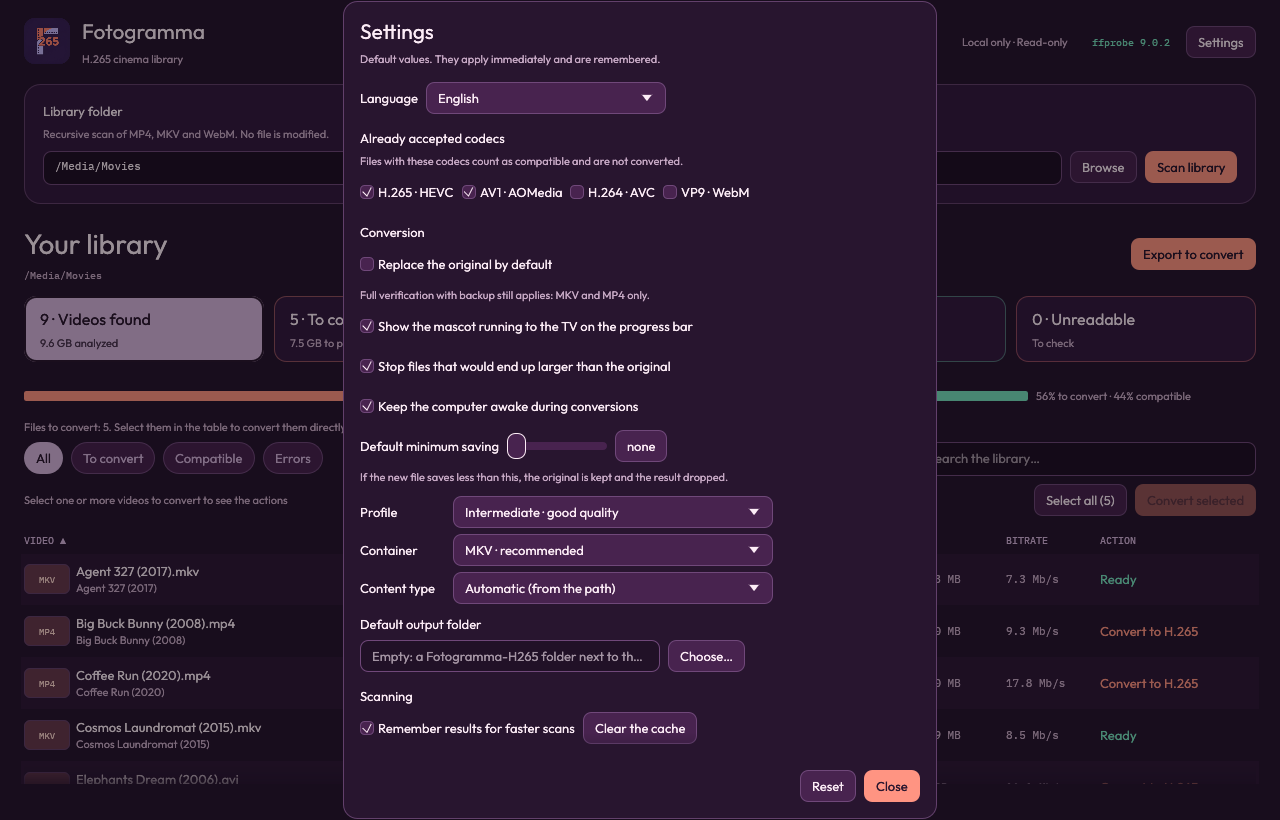
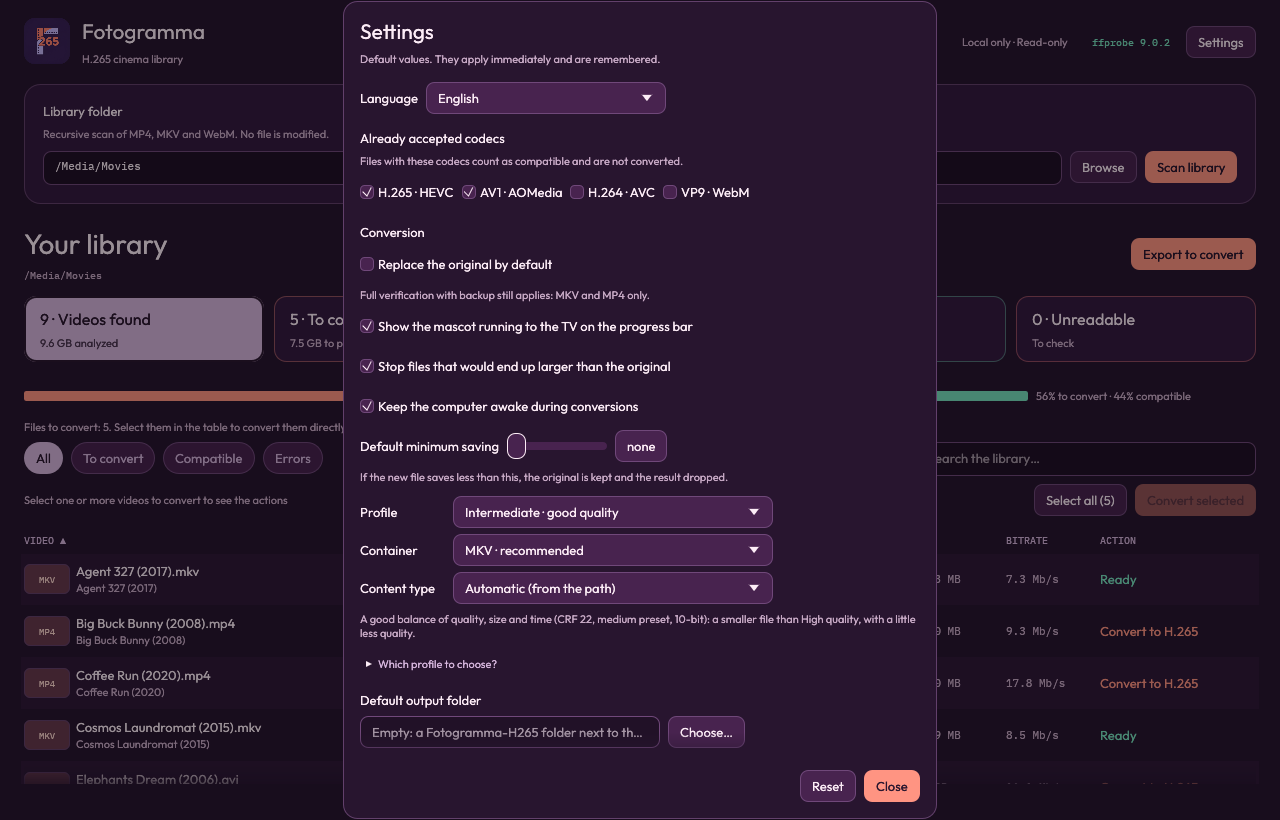
Align the README and the architecture notes with the latest version
Settings now describe the default profile and carry the profile comparison.
The README covers the opt-in update check and its card, the early stop and the
advice, the background queue, the mascot, stopped conversions, the new
modules, and a regenerated Settings screenshot.

Changed region(s): [[0.2812, 0.7317, 0.7188, 0.9146]]

diff --git a/crates/app/src/dialogs.rs b/crates/app/src/dialogs.rs
@@ -1966,6 +1966,18 @@ pub fn show_settings(ctx: &egui::Context, settings: &mut Settings) -> SettingsOu
                         .labelled_by(content_widget.id);
                     ui.end_row();
                 });
+            // What the default profile is, and how the profiles compare.
+            if let Some(profile) = builtin_profile(&settings.default_profile) {
+                ui.add(
+                    egui::Label::new(
+                        RichText::new(profile.description)
+                            .small()
+                            .color(theme::MUTED),
+                    )
+                    .wrap(),
+                );
+            }
+            profile_comparison(ui);
 
             ui.add_space(4.0);
             let output_label = ui.label(tr_str(

diff --git a/README.md b/README.md
@@ -48,21 +48,21 @@ Fotogramma is the one that shows you the library first (what is not H.265, how m
 - Full-output validation before replacing an original file.
 - **Done stays done.** After a conversion, a video whose original was replaced moves to the compatible ones; one converted into a new file stays in the list but is marked **Already converted** (hover for the output path), and *Select all* and *Export* skip it so it is not converted twice by accident.
 - **Made for big libraries:** a scan cache (a rescan reads only the files that changed), up to 8 `ffprobe` threads, a **Bitrate** column to sort by what has the most to gain, and CSV or JSON export.
-- **Keeps long jobs safe:** the queue is saved while it runs and can be resumed after a crash, paused, ordered (largest or smallest first), and followed by sleep or shutdown; the computer is kept awake meanwhile.
+- **Keeps long jobs safe:** the queue is saved while it runs and can be resumed after a crash, paused, ordered (largest or smallest first), and followed by sleep or shutdown; the computer is kept awake meanwhile. Stopping it says so ("Conversion stopped"), and the file you stopped is not counted as an error.
 - **Smarter conversions:** subtitles that do not fit MP4 send the file to MKV, HDR sources are never processed in 8 bits, results that save too little are dropped, converted files keep the date of the original, and the progress shows the time left.
 - **A normal application menu:** on macOS the native menu bar (Fotogramma, File, Edit, View, Window, Help), on Windows and Linux a menu bar in the window, with the same entries and shortcuts: `Ctrl/Cmd+O` choose a folder, `R` scan, `E` export, `Enter` convert the selection, `Shift+A` select all to convert, `F` search, `1`–`4` filters, `,` settings, `W` close the window, `Q` quit. Entries are greyed out when they cannot work.
 - **Conversion in the background:** the progress window can be minimized to a bar at the bottom, and while it runs you can choose more videos and add them to the queue (they run one batch after the other, never in parallel). Stop ends the whole queue.
-- **Early stop and advice:** a file that is clearly heading for a result larger than the original (or than the minimum saving allows) is stopped after the first 10% instead of hours later, and the original is kept; the conversion window also suggests a CRF from how compressed the selected files already are.
+- **Early stop and advice:** a file that is clearly heading for a result larger than the original (or than the minimum saving allows) is stopped after the first 10% instead of hours later, and the original is kept. The conversion window also suggests a CRF from how compressed the selected files already are (a remux that is already at 5 Mb/s needs a higher CRF than a huge one), with a button to apply it, and a **Which profile to choose?** table with the time, file size and use of each profile.
 - **A little easter egg:** a chibi girl runs along the progress bar towards a switched-off TV. She never gets there while the conversion runs (not even at 100% of a file); when it has really finished she reaches it and the TV turns on. She is original pixel art drawn in code by `deployment/make_mascot.py`, and can be switched off in Settings.
 - **Your own presets:** save the custom profile under a name.
 - **Japanese and Korean file names** are drawn with a system font when a scan finds them.
 - **Command line:** `fotogramma-cli scan <folder>` lists what is left to convert, with no window.
 - **Space saved:** each converted file shows its new size against the old one, and the end of a conversion reports the total space freed (or used, if a file grew).
 - **Content type:** anime or live action (films and series). Anime gets `-tune animation`; "Automatic" reads the folders of the path (`Anime`, `Film`, `Serie TV`, `Movies`…), in English and Italian.
-- **Self-update:** the first time you start the app it asks whether it may check GitHub for updates at startup; nothing is requested until you say yes. If it finds a newer version it shows the release notes and installs it after verifying its checksum.
+- **Self-update, only if you say so:** the first time you start the app it asks whether it may check GitHub for updates at startup; nothing is requested until you say yes. If it finds a newer version it shows the release notes and installs it after verifying its checksum. **Check for Updates…** in the menu answers with a card: a spinner, then "You are up to date" (or why it failed).
 - **English and Italian**, chosen automatically from the system language, with an optional manual override.
-- **Settings** window: choose which codecs count as already compatible (the home page, statistics, and table update at once, no new scan) and the conversion defaults (replace original, profile, container).
-- Original application icon and Cinema Pop theme.
+- **Settings** window: choose the language, which codecs count as already compatible (the home page, statistics, and table update at once, no new scan), the conversion defaults (replace original, profile, container, content type, output folder, minimum saving), the early stop, the mascot, the scan cache and the update check.
+- Original application icon, Cinema Pop theme, and a window that scrolls instead of cutting its content when it is small.
 - No videos are modified during inspection. No media or metadata is uploaded during scanning or conversion.
 
 ![Conversion in progress, with the mascot running to the TV](docs/assets/fotogramma-conversion-progress.png)
@@ -78,14 +78,16 @@ Open **Settings** (*Impostazioni* in Italian) from the header. Changes apply imm
 - **Content type:** automatic (from the path), anime, or films and series, used as the default in the conversion dialog.
 - **Default output folder:** where converted files go. Empty means a `Fotogramma-H265` folder next to the originals.
 - **Replace the original by default:** pre-selects the verified replacement in the conversion dialog.
-- **Profile and container:** the preset and `mkv`/`mp4` pre-selected for new conversions.
+- **Profile and container:** the preset and `mkv`/`mp4` pre-selected for new conversions. Under them the profile is described, with the **Which profile to choose?** comparison.
 - **Keep the computer awake during conversions** (on by default) and a **default minimum saving**: when the new file saves less than that percentage, the original is kept and the result dropped.
+- **Stop files that would end up larger than the original** (on by default): after the first 10% of a file the size written so far gives a projection; if it is clearly too big, that file is stopped and the original kept.
+- **The mascot** on the progress bar (on by default).
 - **Remember results for faster scans:** the scan cache, with a button to clear it.
-- **Updates:** check at startup, or now.
+- **Updates:** check at startup (off until you agree to it at the first start), or check now.
 
 ## Conversion presets
 
-The **Custom** profile can be saved under a name (up to 40 characters) and appears in the profile menu from then on; saving under an existing name replaces it. The dialog also has **Order** (as listed, largest first for the most to gain, or smallest first for quick results), **Minimum saving**, and **When finished** (do nothing, sleep, or shut down after a 60-second countdown you can cancel). While a queue runs you can **pause after the file in progress**; if the app or the computer stops, the next start offers to resume what is left.
+The **Custom** profile can be saved under a name (up to 40 characters) and appears in the profile menu from then on; saving under an existing name replaces it. The dialog describes the chosen profile and has a **Which profile to choose?** comparison, and an **Advice for these files** box that suggests a CRF from the bitrate and the resolution of the selection, with a button to apply it. It also has **Order** (as listed, largest first for the most to gain, or smallest first for quick results), **Minimum saving** with the early stop (**Stop files that would end up larger than the original**), and **When finished** (do nothing, sleep, or shut down after a 60-second countdown you can cancel). While a queue runs you can **pause after the file in progress** or **minimize it to the background** and add more batches to the queue (the button then reads **Add to the queue**); if the app or the computer stops, the next start offers to resume what is left.
 
 ![Conversion dialog](docs/assets/fotogramma-conversion-dialog.png)
 
@@ -143,6 +145,7 @@ These are choices, not oversights:
 - **One conversion at a time.** (A queue can be paused, resumed and run in the background, with more batches added behind it, but it never runs in parallel.) The queue is sequential on purpose: x265 already uses every core, and parallel jobs only saturate the CPU and the disk.
 - **Only the first video stream is analyzed** (`v:0`) of `.mp4`, `.mkv`, and `.webm`. A file with several video streams is classified by its first one; the conversion itself keeps every stream (`-map 0`).
 - **Replacing an original does not work with WebM.** The WebM container only allows VP8, VP9 and AV1 video, so an HEVC result cannot stay a `.webm`: it has to become `.mkv` or `.mp4`. Replacing means swapping the verified result into the original's exact path with a backup, and a different extension would break that guarantee. WebM files can still be converted: the result is a new `.mkv` or `.mp4` next to them, and the original is left alone.
+- **Only the batch that is running is saved for a resume.** Batches waiting behind it in the background queue are lost if the app closes (it warns you first).
 - **No macOS notarization.** The app is ad-hoc signed but not notarized (that needs a paid Apple developer account), so Gatekeeper asks you to confirm the first launch.
 - **No macOS Intel build,** and the interface is available in Italian and English only.
 
@@ -176,7 +179,7 @@ If you agreed to it at the first start (or in Settings), Fotogramma asks GitHub 
 2. refuses it unless its SHA-256 matches `SHA256SUMS.txt`, published with every release (and, on macOS, unless the code signature is valid);
 3. after you quit, swaps the installed copy for the new one, keeps the old one if anything fails, and starts the new version.
 
-It needs write access to the folder that holds the app; otherwise the window shows the release page to download by hand. A copy started with `cargo run` is never replaced. **Settings → Updates** turns the startup check off or checks right away, and `FOTOGRAMMA_NO_UPDATE_CHECK=1` disables it for a single run. Releases up to 2.3.0 have no updater and no checksums: install 2.4.0 by hand once.
+It needs write access to the folder that holds the app; otherwise the window shows the release page to download by hand. A copy started with `cargo run` is never replaced. **Settings → Updates** turns the startup check on or off, or checks right away, and `FOTOGRAMMA_NO_UPDATE_CHECK=1` disables it for a single run. Releases up to 2.3.0 have no updater and no checksums: install 2.4.0 by hand once.
 
 ## Run from source
 
@@ -210,7 +213,7 @@ The application looks for the media tools in the executable folder, `bin/` besid
 3. Use statistics and filters to narrow down candidates.
 4. Select one or more videos to reveal available actions, or click **Select all** to take every convertible video in the current view (the filter and the search narrow it; the button then turns into **Clear selection**).
 5. Click a column header to sort and double-click a video for details.
-6. Convert directly or export the list for another tool.
+6. Convert directly (and, while it runs, minimize it and queue more) or export the list for another tool.
 7. Adjust the language, the accepted codecs, and the conversion defaults in **Settings** (*Impostazioni*).
 
 The last directory, window size, and your settings are saved in `settings.toml` under the platform configuration folder. Two other files live there: `scan-cache.json`, the cache of probe results (path, size, date, codec, resolution, duration of readable videos; turn it off or clear it in Settings), and `queue.json`, which exists only while a conversion queue runs. Nothing else about your library is stored.
@@ -222,7 +225,9 @@ cargo test --workspace
 cargo clippy --workspace --all-targets --locked -- -D warnings
 ```
 
-The suite covers discovery, probing, classification, presets, FFmpeg arguments, output allocation, duration/stream/full-decode validation, atomic replacement and backup restoration, settings, the virtualized table, codec re-classification, language selection and English output, update parsing, checksums, extraction and the swap helper, and four `egui_kittest` snapshots (main window and conversion dialog at 1280×820 and 1050×680).
+The suite covers discovery, probing, classification, presets, FFmpeg arguments, output allocation, duration/stream/full-decode validation, atomic replacement and backup restoration, settings, the virtualized table, codec re-classification, language selection and English output, update parsing, checksums, extraction and the swap helper, the menu, the mascot, the early stop and the advice, and `egui_kittest` snapshots of the main window and the dialogs at 1280×820 and 1050×680.
+
+The screenshots above are regenerated, in English and from a demo library of Blender's open movies, with `cargo test -p fotogramma readme_screenshots -- --ignored`.
 
 Two optional end-to-end tests convert a generated clip and verify atomic replacement with real FFmpeg binaries. They use the system tools by default, or the packaged minimal tools when `FOTOGRAMMA_FFMPEG_DIR` is set:
 
@@ -259,7 +264,7 @@ crates/core/               UI-free engine
   src/media_tools.rs       ffmpeg/ffprobe resolution and DYLD environment
   src/conversion.rs        Presets, FFmpeg arguments, safe output allocation
   src/verification.rs      Full validation and atomic backup replacement
-  src/update.rs            Release check, verified download, swap helper (only network use)
+  src/update.rs            Release check, verified download, swap helper (only network use, opt-in)
   src/cache.rs             Scan cache (path, size, date)
   src/queue.rs             The running queue, saved so it can be resumed
   src/export.rs            Paths, CSV and JSON lists; bitrate
@@ -267,8 +272,12 @@ crates/core/               UI-free engine
   src/bin/fotogramma-cli.rs  Command line tool
   src/formatting.rs        Italian number and size formatting
 crates/app/                egui/eframe application
-  src/app.rs               Window, layout, scan flow, snapshots
-  src/icon.rs              Application and Dock icon at startup
+  src/app.rs               Window, layout, scan flow, queue, snapshots
+  src/menu.rs              The application menu, defined once (actions, shortcuts, when enabled)
+  src/native_menu.rs       The macOS menu bar, built with muda
+  src/mascot.rs            The easter egg on the progress bar
+  src/markdown.rs          Release notes rendering
+  src/icon.rs              Application and window icon at startup
   src/table.rs             Virtualized table, filters, sorting, selection
   src/dialogs.rs           Preferences, conversion settings, progress, details, confirmations
   src/worker.rs            Scan and conversion threads with channels
@@ -280,6 +289,8 @@ deployment/
   dmg/                     macOS disk image background and its generator
   build_rust.py            Packaging, ZIP, signature round-trip, size budget
   create_release.py        GitHub release uploader
+  make_icons.py            Rebuilds the icons from Fotogramma.png
+  make_mascot.py           Draws the mascot and the TV (original pixel art)
   Fotogramma.icns/.ico/.png
 docs/                      Architecture, CI/CD, demo assets, release notes
 static/fonts/              Embedded fonts and their licenses
@@ -303,7 +314,7 @@ This is a personal project, so there is no support promise, but bug reports are 
 
 ## Privacy and license
 
-The app opens no server and no browser, and your videos and library are never uploaded. The only network request is the update check: one HTTPS request to `api.github.com` at startup (it reveals your IP address and the app version, like any download), which you can turn off in Settings. Scanning and conversion run locally with the bundled FFmpeg.
+The app opens no server and no browser, and your videos and library are never uploaded. The only network request is the update check, and it is **opt-in**: the first start asks, and nothing is requested until you say yes. If you do, it is one HTTPS request to `api.github.com` at startup (it reveals your IP address and the app version, like any download), which you can turn off in Settings. Scanning and conversion run locally with the bundled FFmpeg.
 
 Fotogramma itself is released under the **MIT License**. See [`LICENSE`](LICENSE) for the full text, including the warranty disclaimer.
 

diff --git a/docs/ARCHITECTURE.md b/docs/ARCHITECTURE.md
@@ -77,6 +77,14 @@ Self-update, the only code that touches the network. `check` reads the latest Gi
 
 The window in `dialogs.rs` shows the release notes, then *Update and restart*, *Later* or *Skip this version* (stored in `settings.toml`). The restart is held back while a scan or conversion runs.
 
+### Early stop and advice (in `conversion.rs`)
+
+`heading_for_too_big(original, current, fraction, min_saving)` projects the final size from the bytes written so far. It says nothing in the first 10% of a file and allows a margin of 10% over the limit (the original, reduced by the minimum saving), because CRF output varies from scene to scene. `worker::convert_one` calls it on every progress line when the option is on (default), kills the `ffmpeg` child, removes the partial output and reports the file as skipped with the projected size, keeping the original. `recommend_quality(videos)` turns the average bits per pixel per second of a selection into a CRF suggestion (old codecs 22, then 26, 24, 22 and 20 as the bitrate grows); the conversion dialog shows it with a button that switches to a custom profile. The profile copy that the combo uses is taken after that button runs, or the old profile would be put back in the same frame.
+
+### Background queue and the mascot (`app.rs`, `dialogs.rs`, `mascot.rs`)
+
+The progress window can be minimized (`session_minimized`) to a bar at the bottom (`show_background_bar`). While a session exists, the conversion dialog adds its batch to `FotogrammaApp::waiting` (button "Add to the queue"); `advance_queue` starts the next batch when the running one finishes and drops them all if the user stopped it. `ConversionSession::scene()` tells the mascot what to do: she runs along the bar (never past 90% of the way), stands when paused or stopped, and when the session finished for good dashes to the TV, which turns on. `ConversionSession::stopped()` separates a stop from a completion for the title and the summary. The frames come from `deployment/mascot.png` and `deployment/tv.png`, drawn by `deployment/make_mascot.py`.
+
 ### Content type (in `conversion.rs`)
 
 `MediaKind` is `Anime` or `Live`. `detect_kind(path)` tokenizes the folder names above a file (lowercase, split on non-alphanumerics) and returns `Anime` if any token is an anime word, else `Live` if any is a film/series word; `detect_selection` requires the files of a selection to agree. The dialog (`ConversionDialog::effective_kind`) combines the setting (`auto`, `anime`, `live`) with the detection and applies only the x265 tune: `animation` for anime, none for live action. The audio choice is merged into built-in profiles in `current_profile`, so every preset honours it.
